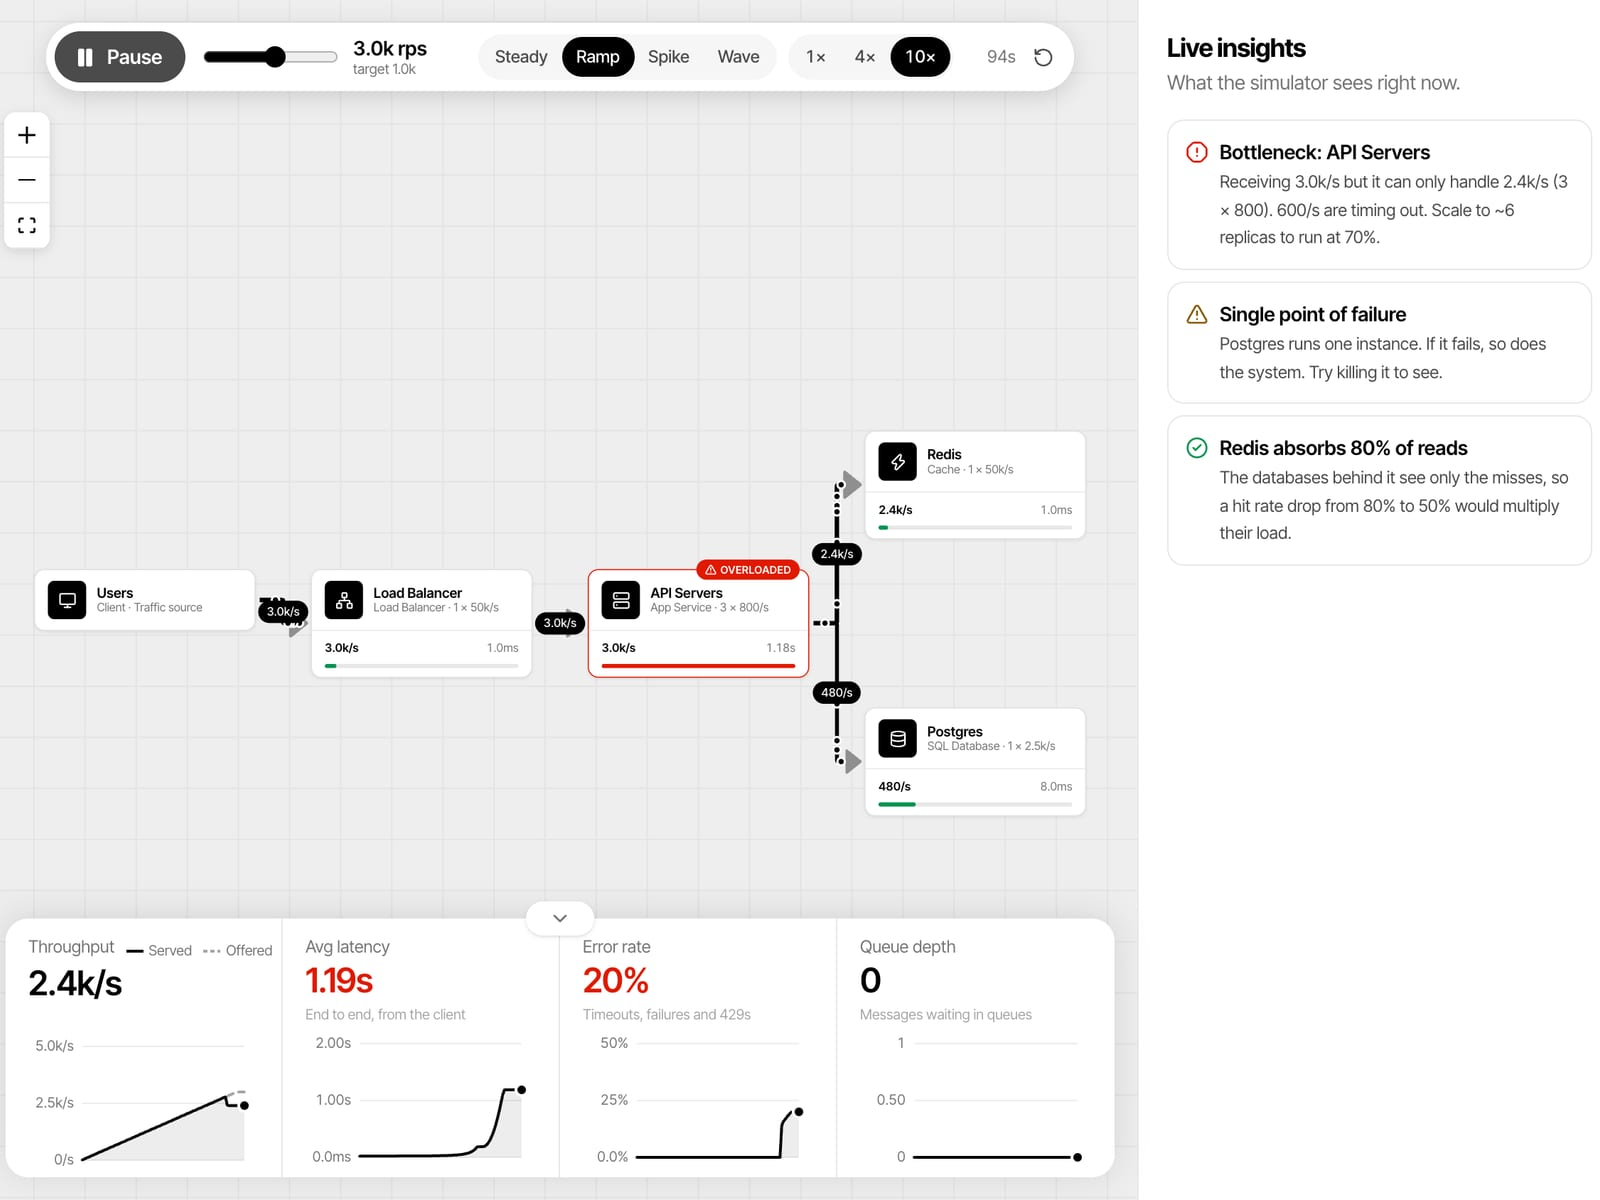
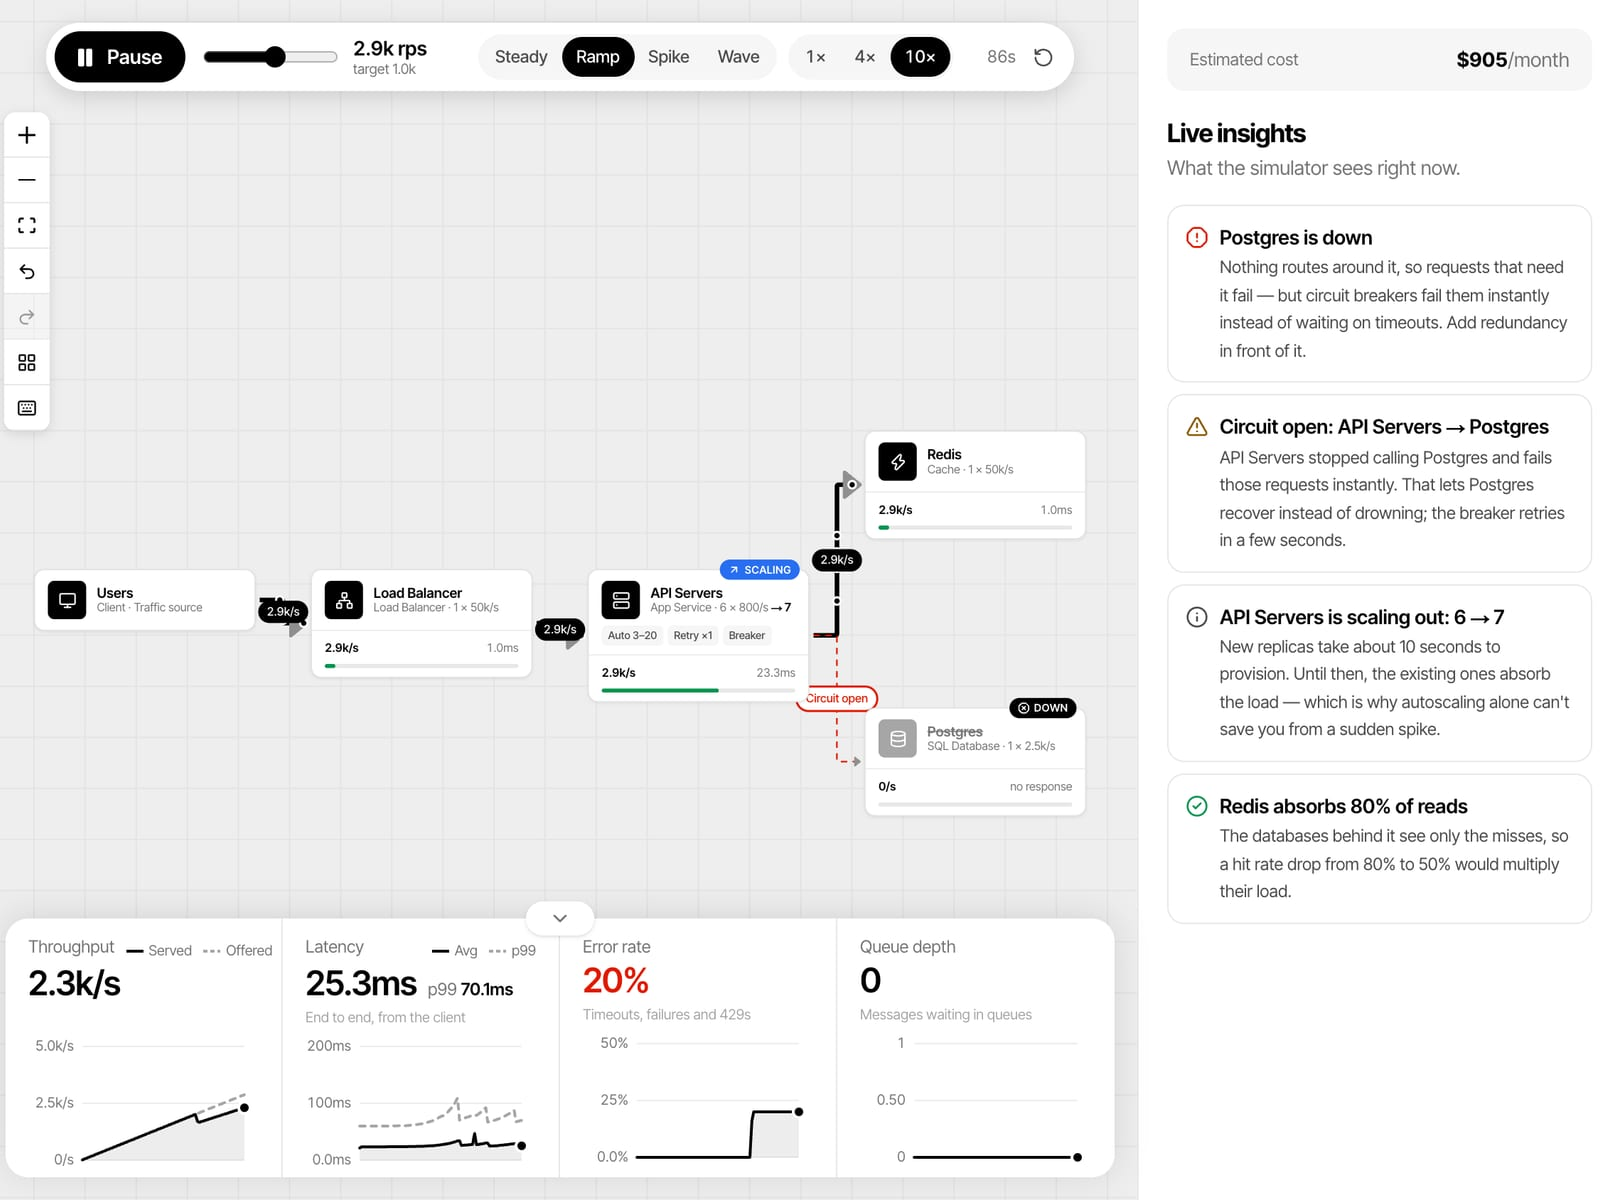
#76 ArchFlow: refresh card, demo and copy for challenges, resilience and usability features

diff --git a/constants.ts b/constants.ts
@@ -265,8 +265,8 @@ export const SHELF_PROJECTS = [
 		githubUrl: "https://github.com/Lal-Jr/ArchFlow",
 		problem: "System design is taught on whiteboards, and a whiteboard never pushes back. You can draw a cache, a queue and three replicas, but you never see what happens at 3,000 requests a second, which box fails first, or why a slow database turns into a slow page.",
 		thought: "Make the diagram run. If every box has a capacity and every arrow carries traffic, the design can answer its own questions: where the bottleneck is, what a traffic spike does to a queue, and what breaks when a node dies.",
-		solving: "I wrote a rate-based simulation engine from scratch in TypeScript. It compiles the graph once per edit (a depth-first search drops cycles, Kahn's algorithm orders the rest), then every 100ms of simulated time routes traffic forward and folds latency and failure back to the client. Components queue as they fill up, caches absorb hits, load balancers route around dead nodes, and queues back up when workers fall behind. Live metrics go through an external store, so ten updates a second never re-render the React Flow graph, and an insights layer turns the numbers into plain advice such as how many replicas would fix a bottleneck.",
-		result: "A simulator with traffic patterns (steady, ramp, spike, wave), chaos controls to kill nodes or inject latency, live charts and bottleneck detection. It also has six system design interview problems with graded feedback, step-by-step reference walkthroughs, and one click to load-test any reference design. It runs entirely in the browser, with no sign-up.",
+		solving: "I wrote a rate-based simulation engine from scratch in TypeScript. It compiles the graph once per edit (a depth-first search drops cycles, Kahn's algorithm orders the rest), then every 100ms of simulated time routes traffic forward and folds latency and failure back to the client. Components queue as they fill up, caches absorb hits, load balancers route around dead nodes, and queues back up when workers fall behind. On top of that it models retries (and the retry storms they cause), circuit breakers, autoscaling with a provisioning delay, and p99 latency from per-component latency distributions. Live metrics go through an external store, so ten updates a second never re-render the React Flow graph, and an insights layer turns the numbers into plain advice such as how many replicas would fix a bottleneck.",
+		result: "A simulator with traffic patterns, chaos controls, live charts, cost estimates and bottleneck detection, plus budgeted challenges (survive Black Friday, a database outage, a retry storm) and six interview problems with graded feedback and walkthroughs. Designs can be shared as a link, and a guided tour, undo and keyboard shortcuts make it easy to pick up. 76 tests, including ones proving every challenge is solvable, run in CI on every push. It runs entirely in the browser, with no sign-up.",
 		isComingSoon: false,
 	},
 	{
